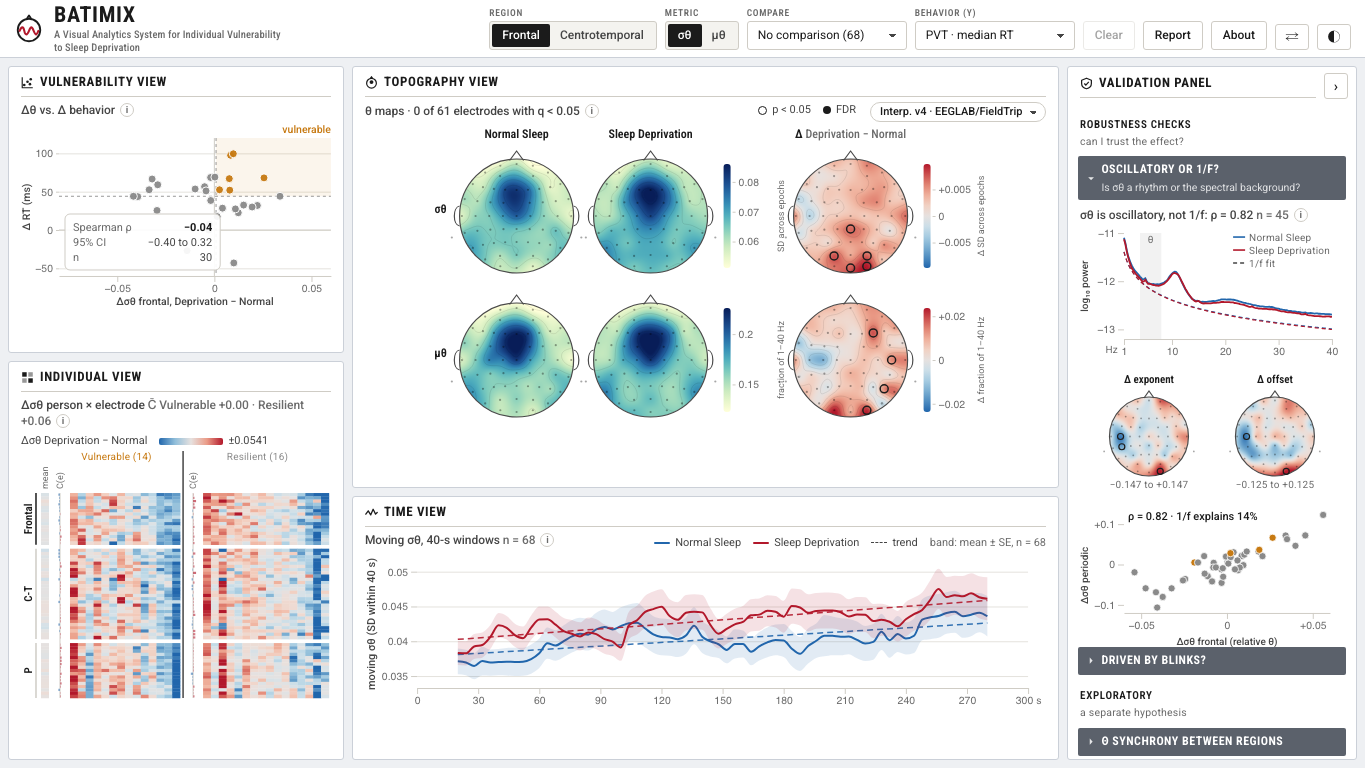
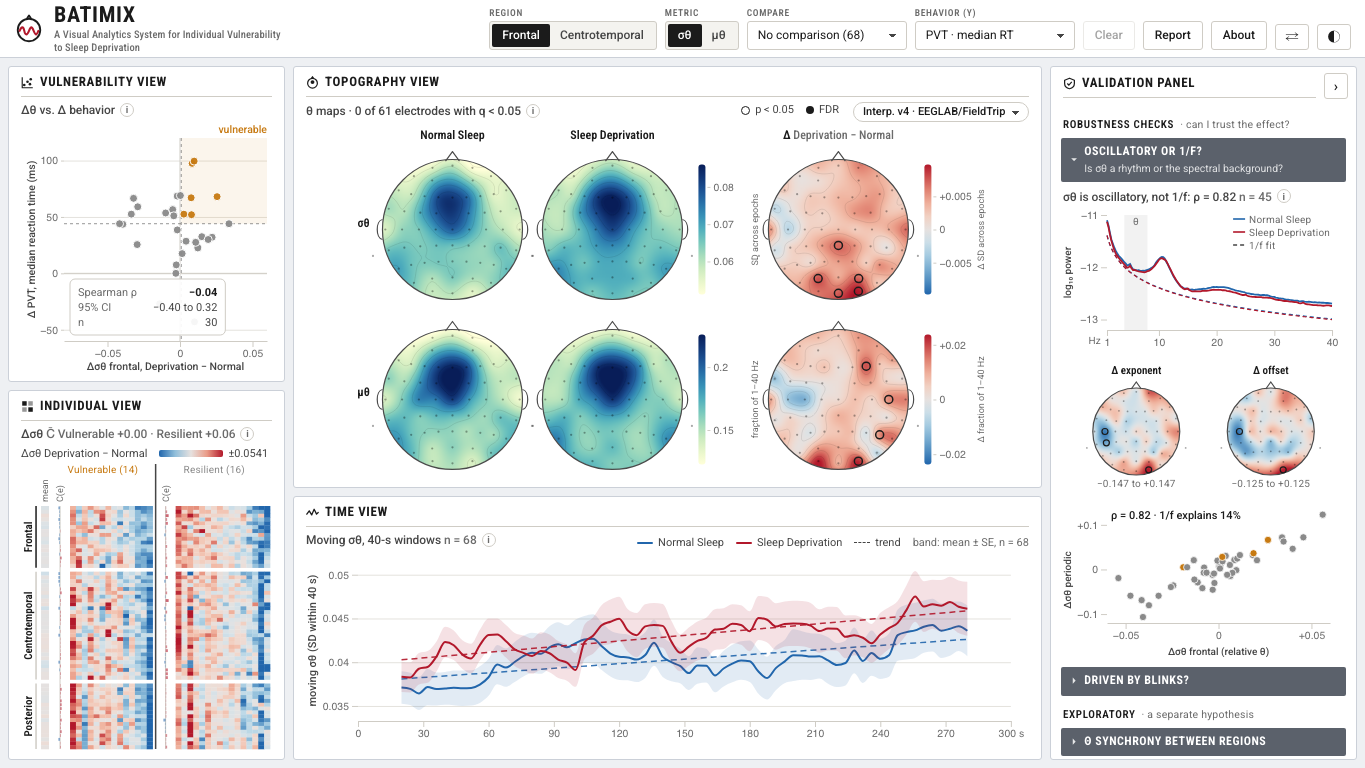
ICA main pipeline, boxed view layout, narrower people column and fitted secondary views

diff --git a/deliveries/week12/app/js/secondary.js b/deliveries/week12/app/js/secondary.js
@@ -17,13 +17,19 @@ const side = (() => {
     if(isOpen(elA)) renderAper(); else d3.select(elA).selectAll("*").remove();
     if(isOpen(elC)) renderConn(); else d3.select(elC).selectAll("*").remove();
     if(isOpen(elE)) renderEye(); else d3.select(elE).selectAll("*").remove();
+    // el título de cada vista se escribe al final del dibujo y puede pasar a dos líneas, lo que achica la caja:
+    // si el gráfico quedó más alto que su caja, se redibuja una vez con el alto real
+    [[elA, renderAper], [elC, renderConn], [elE, renderEye]].forEach(([el, f]) => {
+      const g = isOpen(el) && el.querySelector("svg");
+      if(g && g.getBoundingClientRect().height > el.clientHeight+2) f();
+    });
   }
 
   // ---------------------------------------------------------------- oscilatoria o aperiódica
   function renderAper(){
     if(!APER){ empty(elA, "Data missing (data/aperiodic.json): generate it with tools/build_secondary.py."); setTitle("t-aper", "", ""); return; }
     d3.select(elA).selectAll("*").remove();
-    const W = elA.clientWidth || 280, H = Math.max(420, elA.clientHeight || 520);
+    const W = elA.clientWidth || 280, H = Math.max(300, elA.clientHeight || 520);
     const svg = d3.select(elA).append("svg").attr("viewBox", `0 0 ${W} ${H}`).attr("height", H).style("height", H+"px")
       .attr("role", "img").attr("aria-label", "Spectrum with aperiodic fit, change in exponent and offset per electrode, and theta variability against its periodic part");
     const all = Object.keys(APER.persons), ids = idsOf(all), sel = ids.length < all.length, E = APER.meta.electrodes;
@@ -97,7 +103,7 @@ const side = (() => {
   function renderConn(){
     if(!CONN){ empty(elC, "Data missing (data/connectivity.json): generate it with tools/build_secondary.py."); setTitle("t-conn", "", ""); return; }
     d3.select(elC).selectAll("*").remove();
-    const W = elC.clientWidth || 280, H = Math.max(360, elC.clientHeight || 480);
+    const W = elC.clientWidth || 280, H = Math.max(300, elC.clientHeight || 480);
     const svg = d3.select(elC).append("svg").attr("viewBox", `0 0 ${W} ${H}`).attr("height", H).style("height", H+"px")
       .attr("role", "img").attr("aria-label", "Change in theta synchrony between 10 scalp regions");
     const all = Object.keys(CONN.persons), ids = idsOf(all), sel = ids.length < all.length, G = CONN.group;
@@ -167,7 +173,7 @@ const side = (() => {
   function renderEye(){
     if(!QUAL){ empty(elE, "Data missing (data/quality.json): generate it with tools/build_quality.py."); setTitle("t-eye", "", ""); return; }
     d3.select(elE).selectAll("*").remove();
-    const W = elE.clientWidth || 280, H = Math.max(420, elE.clientHeight || 520);
+    const W = elE.clientWidth || 280, H = Math.max(300, elE.clientHeight || 520);
     const svg = d3.select(elE).append("svg").attr("viewBox", `0 0 ${W} ${H}`).attr("height", H).style("height", H+"px")
       .attr("role", "img").attr("aria-label", "Blink rate per person in NS and SD, and theta variability with and without blink-contaminated windows");
     const Q = QUAL.persons, sm = QUAL.summary[S.roi], ss = S.selected ? new Set(S.selected) : null;

diff --git a/deliveries/week12/app/js/scatter.js b/deliveries/week12/app/js/scatter.js
@@ -14,9 +14,12 @@ const scatter = (() => {
   function build(){
     d3.select(el).selectAll("*").remove();
     // el SVG nunca es más alto que su panel: si no, el título del eje x invade el panel de abajo
-    W = el.clientWidth || 600; H = Math.round(Math.max(170, el.clientHeight || 400));
-    plotB = H-32;   // debajo: marcas y título del eje x
-    svg = d3.select(el).append("svg").attr("viewBox", `0 0 ${W} ${H}`).attr("height", H).style("height", H+"px").attr("role", "img")
+    // área de datos cuadrada: el lado es el menor entre el ancho y el alto disponibles, y el SVG se centra en el panel
+    const aw = el.clientWidth || 600, ah = Math.round(Math.max(170, el.clientHeight || 400)), bottom = 32;
+    const side = Math.max(120, Math.min(aw-m.l-m.r, ah-m.t-bottom));
+    W = side+m.l+m.r; H = side+m.t+bottom;
+    plotB = H-bottom;   // debajo: marcas y título del eje x
+    svg = d3.select(el).append("svg").attr("viewBox", `0 0 ${W} ${H}`).attr("height", H).style("height", H+"px").style("width", W+"px").style("margin", "0 auto").attr("role", "img")
       .attr("aria-label", "Scatter of the theta change against the behavioral marker; the data are listed in About");
     g = svg.append("g");
     sx = d3.scaleLinear().range([m.l, W-m.r]); sy = d3.scaleLinear().range([plotB, m.t]);

diff --git a/deliveries/week12/app/css/styles.css b/deliveries/week12/app/css/styles.css
@@ -325,3 +325,16 @@ body{background:var(--page)}
 }
 .key .k.m{white-space:normal}
 @media (max-width:600px){ .ph .key{flex:1 1 100%;justify-content:flex-start} }
+/* dispersión cuadrada: la vista mide lo mismo de alto que de ancho (ancho de la columna menos el relleno del panel),
+   con un tope para que el mapa de calor conserve espacio; el mapa de calor ocupa el resto de la columna */
+@media (min-width:1101px){
+  .col-l{grid-template-rows:auto minmax(0,1fr);container-type:inline-size}
+  .p-scatter .view{flex:none;height:min(calc(100cqw - 26px), calc(50vh - 90px), calc(50svh - 90px))}
+}
+/* columna de personas más angosta: dispersión más chica y mapa de calor más alto; los mapas ganan ancho */
+.board{--wl:minmax(0,.74fr)}
+/* panel de validación: encabezados de grupo en una línea para dejar más alto a la sección abierta */
+.sec-group{flex-direction:row;align-items:baseline;gap:6px;padding:8px 12px 2px}
+.sec-group span::before{content:"· "}
+.side-head{padding:6px 8px 2px 12px}
+.sec-body{overflow:hidden}

diff --git a/deliveries/week12/app/js/individuals.js b/deliveries/week12/app/js/individuals.js
@@ -143,7 +143,7 @@ const indiv = (() => {
       "Vulnerable and resilient are defined by behavior only (worse or not than the median change in the chosen marker), not by theta.");
     if(b){
       const dA = mC(a), dB = mC(b);
-      setTitle("t-heat", `Δ${METN[model.met]} person × electrode`, nb(`C̄ ${a.name} ${fs2(dA)} · ${b.name} ${fs2(dB)}`), hInfo);
+      setTitle("t-heat", `Δ${METN[model.met]}`, nb(`C̄ ${a.name} ${fs2(dA)} · ${b.name} ${fs2(dB)}`), hInfo);
     } else setTitle("t-heat", `Δ${METN[model.met]} person × electrode`, nb(`${a.name}: |C| ≥ 0.6 at ${strong(a)} of 61, n = ${a.ids.length}`), hInfo);
     d3.select("#k-heat").html(`<span class="k">Δ${METN[model.met]} Deprivation − Normal</span><span class="k"><i style="width:64px;height:7px;border-radius:2px;background:linear-gradient(90deg,${d3.range(0, 1.01, .25).map(C.div).join(",")})"></i>±${fr(model.lim)}</span>`);
   }
